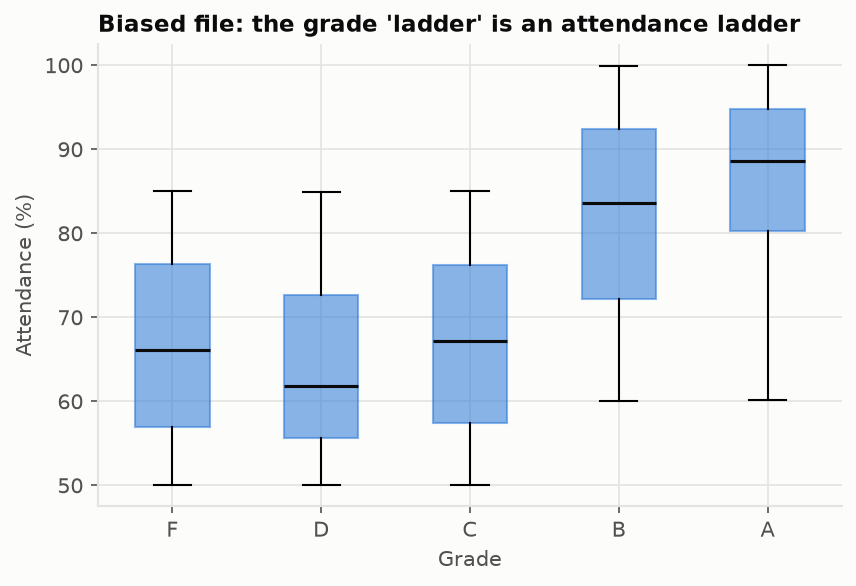
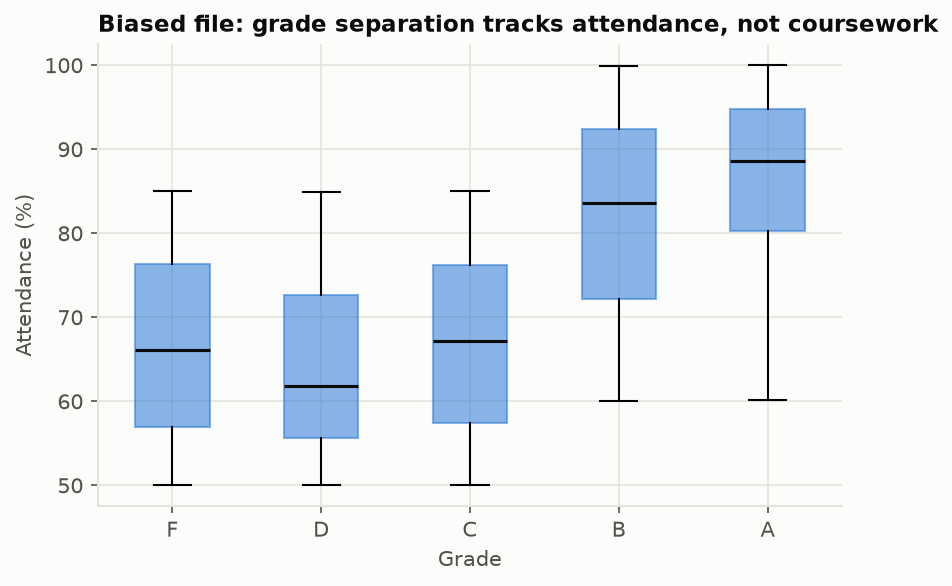
Drop the "ladder" metaphor from body line and figure title
"Ladder" implies monotonic steps, but F sits above D in the biased file, so
it overstates the shape (same issue as the caption fix). Reword the write-up
body and the attendance-by-grade figure title to "grade tracks/ separation
tracks attendance, not coursework"; figure regenerated.

diff --git a/src/audit.py b/src/audit.py
@@ -65,7 +65,7 @@ def run(biased: pd.DataFrame, out_dir: Path) -> None:
         box.set(facecolor=viz.BLUE, alpha=0.55, edgecolor=viz.BLUE)
     ax.set_xlabel("Grade")
     ax.set_ylabel("Attendance (%)")
-    ax.set_title("Biased file: the grade 'ladder' is an attendance ladder")
+    ax.set_title("Biased file: grade separation tracks attendance, not coursework")
     fig.savefig(out_dir / "fig_audit_attendance_by_grade.png")
     plt.close(fig)
 

diff --git a/WRITEUP.md b/WRITEUP.md
@@ -30,7 +30,7 @@ Subgroup checks (gender, income, home internet) show recall gaps ≤ 5 percentag
 
 ## Bias audit (biased file)
 
-The same pipeline trained on the biased file scores AUC 0.75, but shuffling the single Attendance column collapses it to 0.50. Its apparent skill is entirely the corrupted label — the grade "ladder" is really an attendance ladder (figure below). In this extract, the artifact is spread evenly across sensitive groups (attendance differs ≤ 0.6 percentage points between groups), which is luck, not safety: the moment attendance correlates with income or connectivity, the integrity failure becomes a fairness failure. Verdict: label-provenance checks belong in ingest, before any training run.
+The same pipeline trained on the biased file scores AUC 0.75, but shuffling the single Attendance column collapses it to 0.50. Its apparent skill is entirely the corrupted label — grade separation here tracks attendance, not coursework (figure below). In this extract, the artifact is spread evenly across sensitive groups (attendance differs ≤ 0.6 percentage points between groups), which is luck, not safety: the moment attendance correlates with income or connectivity, the integrity failure becomes a fairness failure. Verdict: label-provenance checks belong in ingest, before any training run.
 
 <img src="outputs/fig_audit_attendance_by_grade.png" width="480" alt="Biased file: attendance by grade">
 